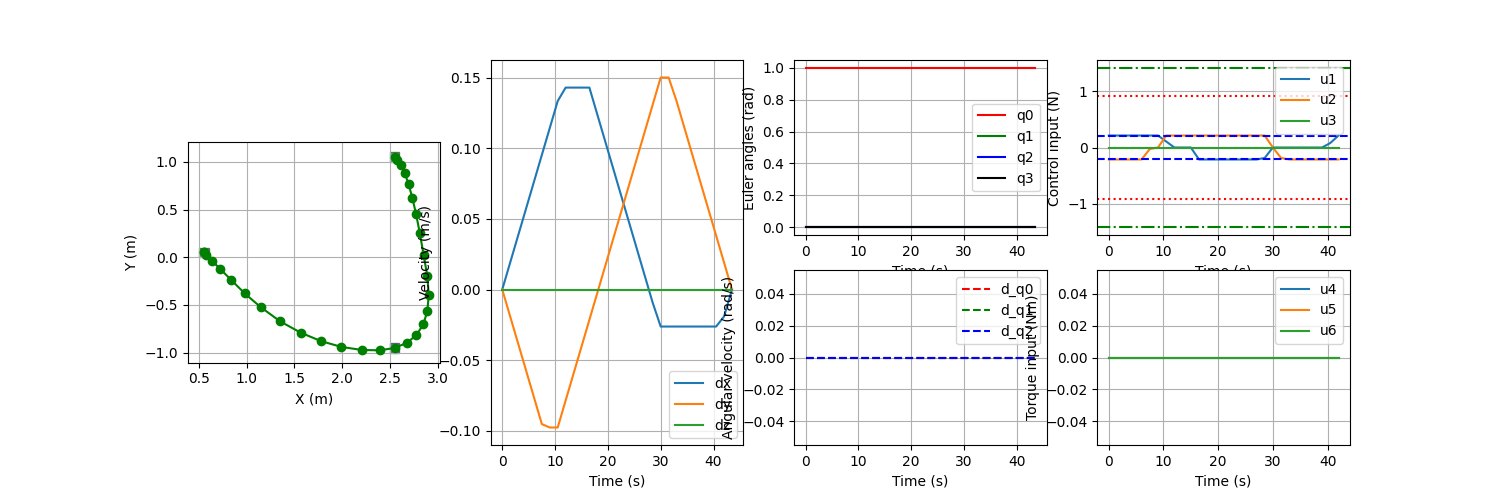
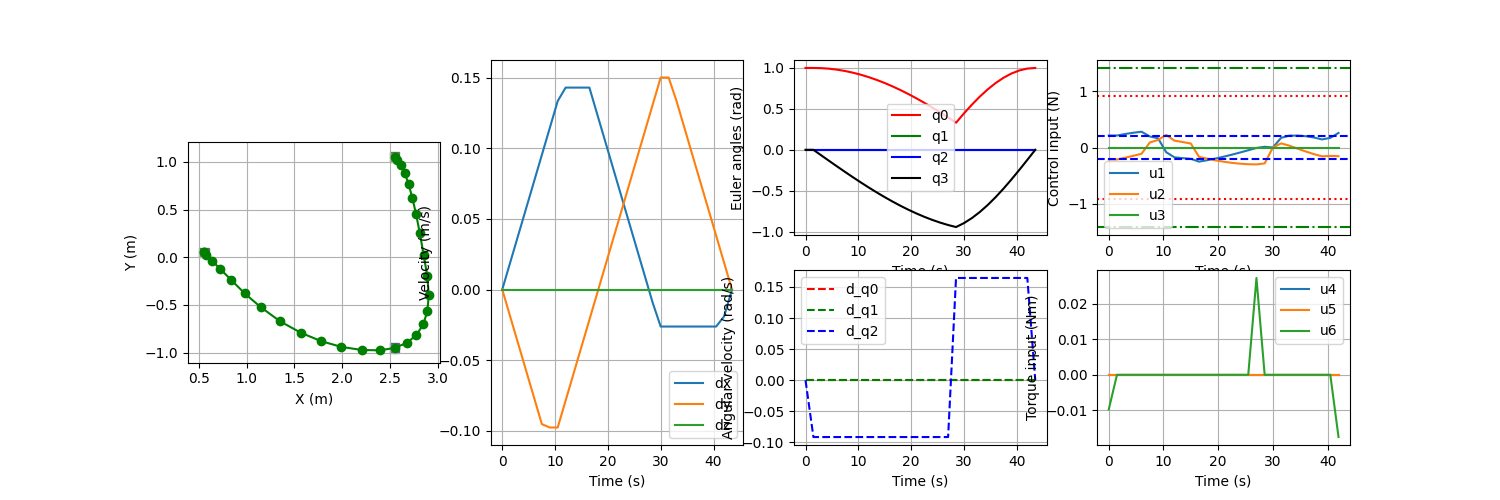
checked whether lin to nonline is a valid conversion, seem to work for yaw

diff --git a/stl_mapping/Control/controllers/mpc_fbl_wrench.py b/stl_mapping/Control/controllers/mpc_fbl_wrench.py
@@ -1,0 +1,223 @@
+############################################################################
+#
+#   Copyright (C) 2024 PX4 Development Team. All rights reserved.
+#
+# Redistribution and use in source and binary forms, with or without
+# modification, are permitted provided that the following conditions
+# are met:
+#
+# 1. Redistributions of source code must retain the above copyright
+#    notice, this list of conditions and the following disclaimer.
+# 2. Redistributions in binary form must reproduce the above copyright
+#    notice, this list of conditions and the following disclaimer in
+#    the documentation and/or other materials provided with the
+#    distribution.
+# 3. Neither the name PX4 nor the names of its contributors may be
+#    used to endorse or promote products derived from this software
+#    without specific prior written permission.
+#
+# THIS SOFTWARE IS PROVIDED BY THE COPYRIGHT HOLDERS AND CONTRIBUTORS
+# "AS IS" AND ANY EXPRESS OR IMPLIED WARRANTIES, INCLUDING, BUT NOT
+# LIMITED TO, THE IMPLIED WARRANTIES OF MERCHANTABILITY AND FITNESS
+# FOR A PARTICULAR PURPOSE ARE DISCLAIMED. IN NO EVENT SHALL THE
+# COPYRIGHT OWNER OR CONTRIBUTORS BE LIABLE FOR ANY DIRECT, INDIRECT,
+# INCIDENTAL, SPECIAL, EXEMPLARY, OR CONSEQUENTIAL DAMAGES (INCLUDING,
+# BUT NOT LIMITED TO, PROCUREMENT OF SUBSTITUTE GOODS OR SERVICES; LOSS
+# OF USE, DATA, OR PROFITS; OR BUSINESS INTERRUPTION) HOWEVER CAUSED
+# AND ON ANY THEORY OF LIABILITY, WHETHER IN CONTRACT, STRICT
+# LIABILITY, OR TORT (INCLUDING NEGLIGENCE OR OTHERWISE) ARISING IN
+# ANY WAY OUT OF THE USE OF THIS SOFTWARE, EVEN IF ADVISED OF THE
+# POSSIBILITY OF SUCH DAMAGE.
+#
+############################################################################
+
+__author__ = "Elias Krantz"
+__contact__ = "eliaskra@kth.se"
+
+import numpy as np
+import os
+from scipy.linalg import block_diag
+import casadi as ca
+from acados_template import AcadosOcp, AcadosOcpSolver
+from ..models.atmos_wrench import atmos_model_wrench
+from ..models.bluerov_wrench import bluerov_model_wrench
+
+class MpcWrench():
+    def __init__(self, model_name:str='atmos'):
+        # Define the controller parameters
+        self.dt = 0.2               # MPC time step [s]
+        self.Nx = 30                # Prediction horizon, states             
+        self.Nu = 30                # Prediction horizon, inputs
+        self.Q = np.diag([          # State weighting matrix
+            1e0, 1e0, 1e0,
+            1e2,
+            3e1, 3e1, 3e1,  
+            3e1, 3e1, 3e1])             
+        self.R = 0.1*np.diag([          # State weighting matrix
+            1e0, 1e0, 1e0,
+            1e0, 1e0, 1e0]) 
+        self.P = 10 * self.Q        # Terminal state weighting matrix
+        
+        # Bounds
+        self.lbx = np.array([0+0.25, -1.58+0.25, 0.0, -0.5, -0.5, -3])
+        self.ubx = np.array([4.1-0.25, 1.74-0.25, 3.0, 0.5, 0.5, 3])
+        self.idxbx = np.array([0, 1, 2, 7, 8, 12]) # Indexes of states that are bounded
+
+        # Weight on slack varibles
+        self.W_slack = np.array([1e4]*len(self.idxbx))
+        self.idx_slack = np.array([0, 1, 2, 3, 4, 5]) # Indexes of slack variables
+
+        # Create the OCP
+        self.model_name = model_name
+        self.solver = self.setup()
+
+    def setup(self):
+        # create ocp object to formulate the OCP
+        ocp = AcadosOcp()
+        
+        # Set directory for code generation and json file
+        this_file_dir = os.path.dirname(os.path.abspath(__file__))
+        package_root = os.path.abspath(os.path.join(this_file_dir, '..'))
+        codegen_dir = os.path.join(package_root, 'mpc_codegen')
+        json_path = os.path.join(codegen_dir, 'acados_ocp.json')
+        os.makedirs(codegen_dir, exist_ok=True)
+        ocp.code_export_directory = codegen_dir
+
+        # Define the model
+        if self.model_name == 'atmos':
+            print("Using Atmos model")
+            model = atmos_model_wrench()
+        elif self.model_name == 'bluerov':
+            print("Using BlueROV model")
+            model = bluerov_model_wrench()
+        else:
+            raise ValueError(f"Model {self.model_name} not recognized. Use 'atmos' or 'bluerov'.")
+        ocp.model = model
+
+        # Set dimensions
+        nx = model.x.size()[0]
+        nu = model.u.size()[0]
+        self.nx = nx
+        self.nu = nu
+        ocp.parameter_values = np.zeros(nx+nu+6)  # x_ref, u_ref, fd, td
+
+        # Get variables
+        x_ref = model.p[:nx]
+        u_ref = model.p[nx:nx+nu]
+
+        # Set slack variables costs
+        ocp.cost.Zl = self.W_slack
+        ocp.cost.Zu = self.W_slack
+        ocp.cost.zl = np.zeros(self.idx_slack.size)
+        ocp.cost.zu = np.zeros(self.idx_slack.size)
+
+        # Define the cost function
+        ocp.cost.cost_type = 'NONLINEAR_LS'
+        ocp.cost.cost_type_e = 'NONLINEAR_LS'
+
+        # Set the weighting matrices
+        ocp.cost.W = block_diag(self.Q, self.R)
+        ocp.cost.W_e = block_diag(self.P)
+
+        # quat_error = ca.fabs(model.x[6:10].T @ x_ref[6:10])
+        quat_error = (model.x[3:7].T @ x_ref[3:7])**2
+        # quat_error = ca.fmax(0, ca.fmin(1, quat_error))
+        ocp.model.cost_y_expr = ca.vertcat(
+            model.x[0:3] - x_ref[0:3],   # Position error
+            quat_error,
+            model.x[7:10] - x_ref[7:10],   # Velocity error
+            model.x[10:13] - x_ref[10:13],  # Angular velocity error
+            model.u - u_ref, # Control error
+        )
+        # Terminal cost 
+        ocp.model.cost_y_expr_e = ca.vertcat(
+            model.x[0:3] - x_ref[0:3],
+            quat_error,
+            model.x[7:10] - x_ref[7:10],
+            model.x[10:13] - x_ref[10:13],
+        )
+        ocp.cost.yref = np.zeros(ocp.model.cost_y_expr.shape[0])  # Reference for full cost function
+        ocp.cost.yref[3] = 1    # Quaternion reference
+        ocp.cost.yref_e = np.zeros(ocp.model.cost_y_expr_e.shape[0])  # Terminal reference
+        ocp.cost.yref_e[3] = 1  # Quaternion reference
+
+        # Constraints
+        ocp.constraints.lbu = model.u_min
+        ocp.constraints.ubu = model.u_max
+        ocp.constraints.idxbu = np.arange(nu)
+
+        ocp.constraints.lbx = self.lbx
+        ocp.constraints.ubx = self.ubx
+        ocp.constraints.idxbx = self.idxbx  # All states are bounded
+        ocp.constraints.idxsbx = np.arange(len(self.idxbx)) # All states are slack variables
+
+        ocp.constraints.x0 = np.zeros(nx)  # Initial state
+        ocp.constraints.x0[3] = 1  # Initial quaternion
+
+        # Feedback linearization constraints
+        # TODO: how to implement nonlinear inequality constraints?
+        # model.con_h_expr 
+
+
+        # Set up the constraints for the other agents
+        # ocp.constraints.lh = np.full(0, -1e9)   # lower bounds on con_h_expr
+        # ocp.constraints.uh = np.zeros(0)  # no upper bounds (one-sided constraint)  
+        # ocp.constraints.idxsh = self.idx_slack  # index of slack variables corresponding to con_h_expr
+        # ocp.constraints.lh_e = ocp.constraints.lh
+        # ocp.constraints.uh_e = ocp.constraints.uh
+        # ocp.constraints.idxsh_e = ocp.constraints.idxsh 
+
+        # Set the prediction horizon
+        ocp.solver_options.N_horizon = self.Nx
+        ocp.solver_options.tf = self.dt * self.Nx
+
+        # Set the solver options
+        useRTI = True
+        if useRTI:
+            ocp.solver_options.nlp_solver_type = "SQP_RTI"
+            ocp.solver_options.nlp_solver_max_iter = 1
+        else:
+            ocp.solver_options.nlp_solver_type = "SQP"
+        ocp.solver_options.qp_solver = 'PARTIAL_CONDENSING_HPIPM' # PARTIAL_CONDENSING_HPIPM, FULL_CONDENSING_HPIPM,
+        ocp.solver_options.hessian_approx = 'GAUSS_NEWTON' # 'GAUSS_NEWTON', 'EXACT'
+        ocp.solver_options.print_level = 0
+
+        ocp_solver = AcadosOcpSolver(ocp, json_file=json_path)
+        return ocp_solver
+
+    def get_input(self, x0, x_ref, fd=np.zeros(3), td=np.zeros(3)):
+        # Properly set x0, i.e. constrain it to x0
+        print("trying to set initial state")
+        self.solver.set(0, "lbx", x0.flatten())
+        self.solver.set(0, "ubx", x0.flatten())
+
+        # Update reference
+        if x_ref.ndim == 1:
+            x_ref = x_ref.reshape(-1, 1)
+        len_x_ref = x_ref.shape[1]
+        for k in range(self.Nx + 1):
+            if k < len_x_ref:
+                x_ref_k = x_ref[:self.nx,k]
+                u_ref_k = x_ref[self.nx:self.nx+self.nu,k]
+            else:
+                x_ref_k = x_ref[:self.nx,-1]
+                u_ref_k = x_ref[self.nx:self.nx+self.nu,-1]
+            self.solver.set(k, "p", np.concatenate((x_ref_k, u_ref_k, fd, td), axis=0))
+
+        status = self.solver.solve()
+        u_opt = self.solver.get(0, 'u')
+        if status != 0:
+            print("Solver failed. Retrying with warm-start reset.")
+            self.solver.reset()
+            status = self.solver.solve()
+            if status != 0:
+                print("Solver failed again. Using previous solution.")
+                u_opt =  self.solver.get(1, 'u')
+        
+        # get solution
+        x_pred = np.ndarray((self.Nx+1, self.nx))
+        for i in range(self.Nx):
+            x_pred[i,:] = self.solver.get(i, "x")
+        x_pred[self.Nx,:] = self.solver.get(self.Nx, "x")
+        
+        return u_opt, x_pred

diff --git a/stl_mapping/Planning/main.py b/stl_mapping/Planning/main.py
@@ -35,17 +35,17 @@ sp_robot = LinearFreeFlyer6DoF()
 euler_order = 'xyz'
 
 # STL Specification
-X0 = HyperRectangle(np.array([0.5, 0, 0]), np.array([0.6, 0.1, 0.1]))
-Xf = HyperRectangle(np.array([2.5, 1.0, 0]), np.array([2.6, 1.1, 0.1]))
-# XA = HyperRectangle(np.array([2.5, -1.0, 0,  -np.pi/2-np.pi/8]), np.array([2.6, -0.9, 0.1,  -np.pi/2+np.pi/8]))
+X0 = HyperRectangle(np.array([0.5, 0, 2.0]), np.array([0.6, 0.1, 2.1]))
+Xf = HyperRectangle(np.array([2.5, 1.0, 2.0]), np.array([2.6, 1.1, 2.1]))
+XA = HyperRectangle(np.array([2.5, -1.0, 2.0,  -np.pi/2-np.pi/8]), np.array([2.6, -0.9, 2.1,  -np.pi/2+np.pi/8]))
 # later converted to polytopes for predicates of the form Ax \leq b: Polytope = (A,b)
-XA = HyperRectangle(np.array([2.5, -1.0, 0]), np.array([2.6, -0.9, 0.1]))
+# XA = HyperRectangle(np.array([2.5, -1.0, 2.0]), np.array([2.6, -0.9, 2.1]))
 Obs = []
 World = HyperRectangle(np.array([0, -1.5, -10, -10]), np.array([4, 1.5, 10, 10]))
 phi = Pred("AND", preds=[
     Pred("G", [t0,t0], preds=[Pred("MU", preds=[Polytope(X0)], dims=[0,1,2])]),
     Pred("G", [tf,tf], preds=[Pred("MU", preds=[Polytope(Xf)], dims=[0,1,2])]),
-    Pred("F", [t0,tf], preds=[Pred("MU", preds=[Polytope(XA)], dims=[0,1,2])]),
+    Pred("F", [t0,tf], preds=[Pred("MU", preds=[Polytope(XA)], dims=[0,1,2,5])]),
     Pred("G", [t0,tf], preds=[Pred("MU", preds=[Polytope(World)], dims=[0,1,6,7])]),
 ])
 spec = Spec(phi, t0, tf)
@@ -147,14 +147,17 @@ np.savez('stl_mapping/Planning/solutions/atmos_solution.npz', x=x_ff, u=u_ff, dt
 #TODO: 1. this is a valid conversion (Lin to non-lin) if the system (with zero roll) is differentially flat?
 #TODO:    this means that this linear decoupling is valid, and x_ff and u_ff are valid for the nonlinear space robot
 #TODO:    CHECK THIS!
-
-
-
-
-
-
-
-
+# sp_robot_nl = FreeFlyer()
+# x_ff_nl = np.zeros((x_ff.shape[0], x_ff.shape[1]))
+# u_ff_nl = np.zeros((u_ff.shape[0], u_ff.shape[1]))
+# x_ff_i = copy.deepcopy(x_ff[0, :])
+# x_ff_nl[0, :] = x_ff_i
+# for i in range(x_ff.shape[0]-1):
+#     x_ff_i = sp_robot_nl.step(x_ff_i, u_ff[i, :], dt)
+#     x_ff_i[3:7] /= np.linalg.norm(x_ff_i[3:7])  # normalize quaternion
+#     x_ff_nl[i+1, :] = x_ff_i
+# plot_planning_results(sp_robot_nl, t_sp, x_ff_nl, u_ff, X0, Xf, [XA], Obs, alpha=alpha,
+#                       path="stl_mapping/Planning/figures/atmos_trajectory_as_ff.png")
 
 
 # feedback linearization controller for the underwater robot to behave like a free flyer

diff --git a/stl_mapping/Utilities/Robots.py b/stl_mapping/Utilities/Robots.py
@@ -138,6 +138,7 @@ class LinearFreeFlyer6DoF(Robot):
             self.K@self.D.upper_bounds
         )
         self.U_effective = self.U.subtract(self.KD)
+        print(f"U_effective: {self.U_effective.center}, {self.U_effective.lower_bounds}, {self.U_effective.upper_bounds}")
 
     def calculate_fx(self,x):
         return self.A@x
